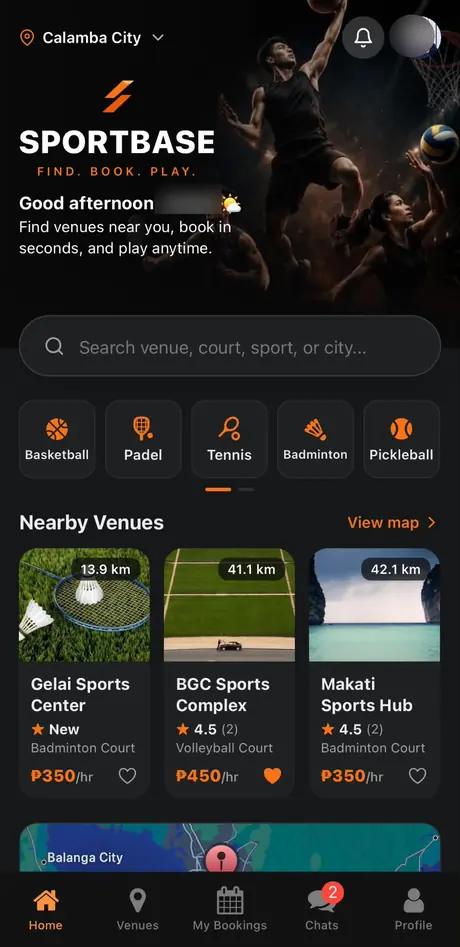
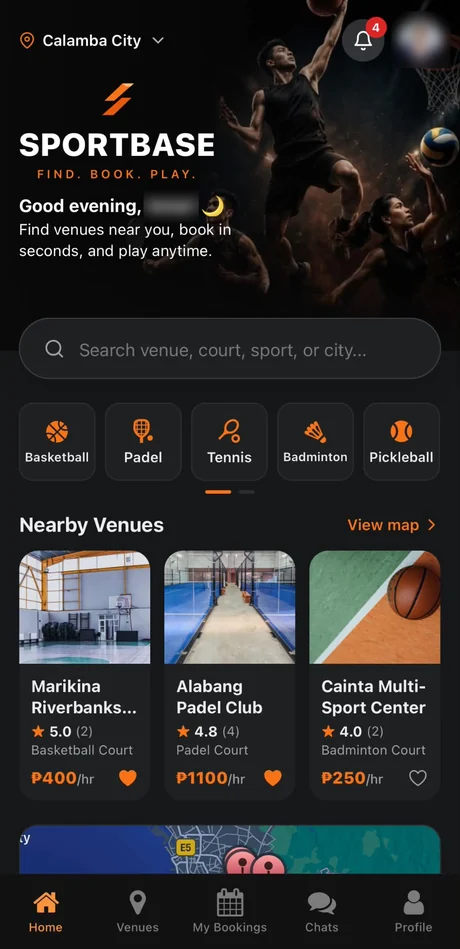
The player home screen, as it stands

diff --git a/index.html b/index.html
@@ -1571,7 +1571,7 @@
   </div>
   <div class="wrap foot-base">
     <span>&copy; 2026 SportBase &middot; Philippines</span>
-    <span>In development &middot; venues onboarding now &middot; <span class="build">build 2026-09-16 10:34 UTC</span></span>
+    <span>In development &middot; venues onboarding now &middot; <span class="build">build 2026-09-16 10:41 UTC</span></span>
   </div>
 </footer>
 
